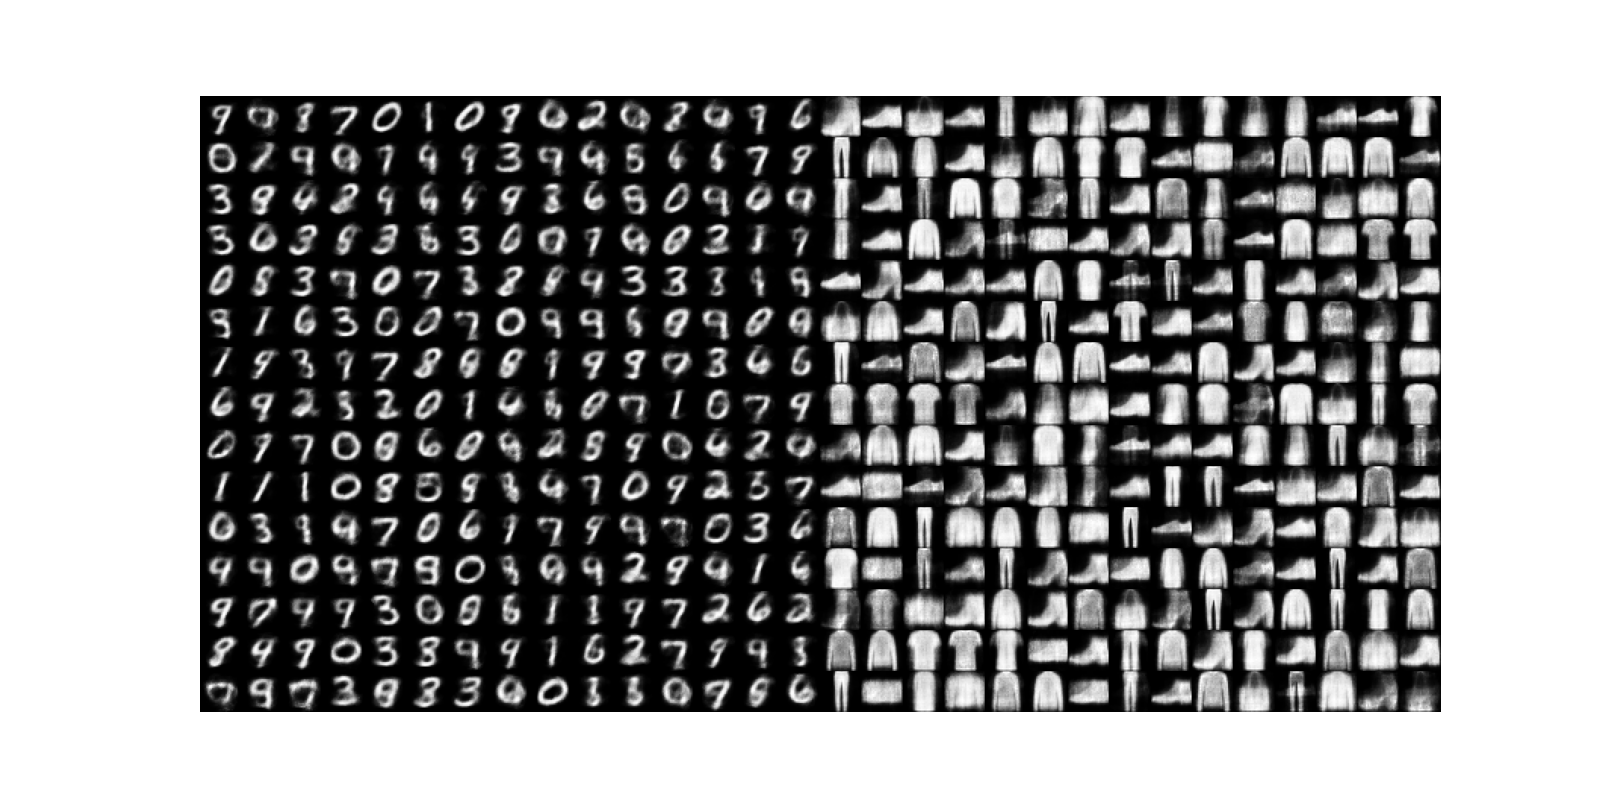
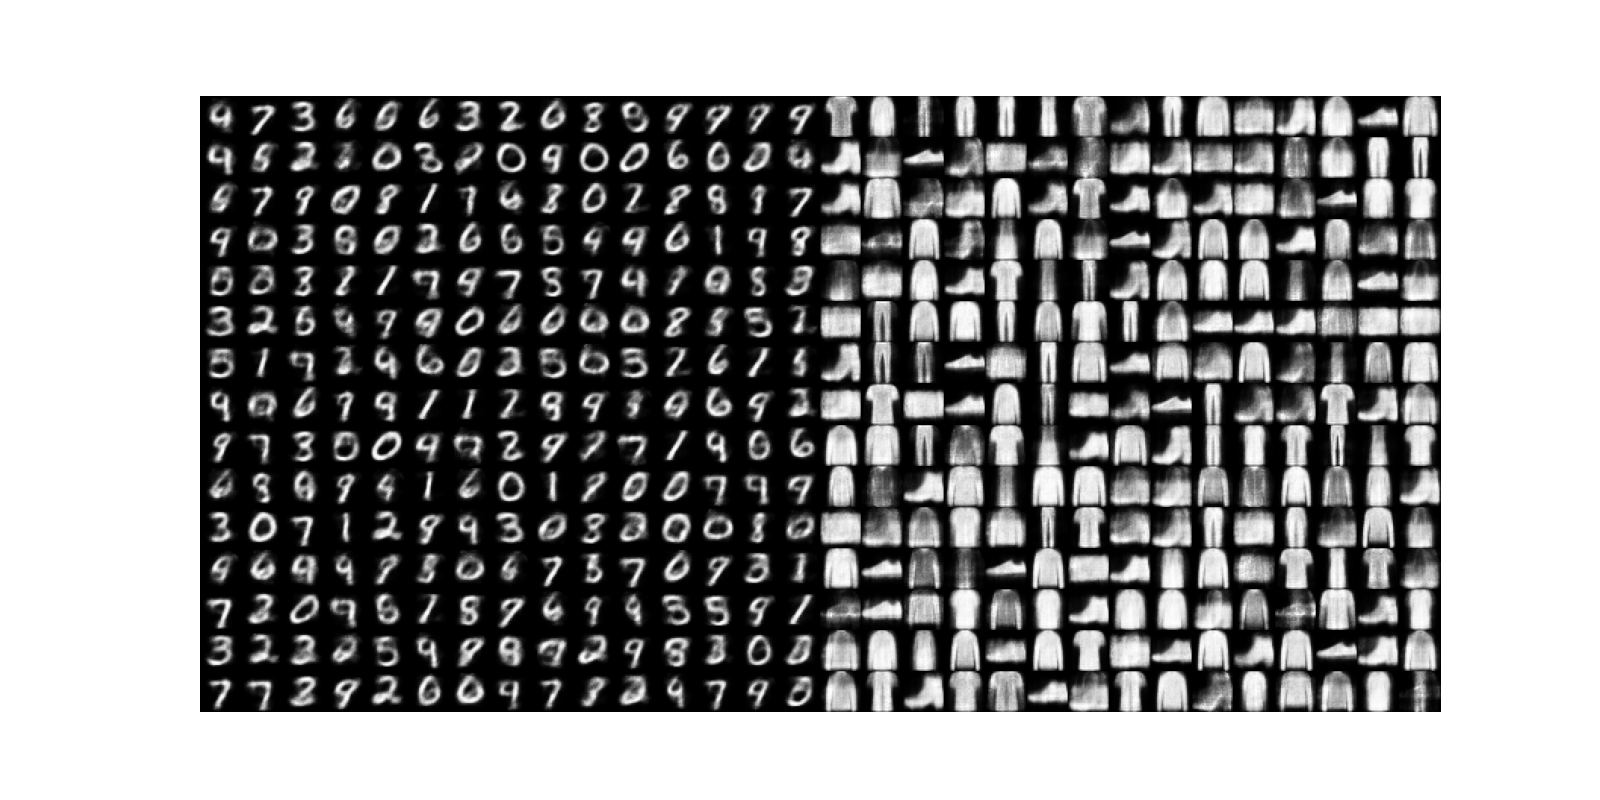
logs

Changed region(s): [[0.125, 0.125, 0.9062, 0.9062]]

diff --git a/plt_grid_img.py b/plt_grid_img.py
@@ -2,7 +2,7 @@ import h5py
 import matplotlib.pyplot as plt
 
 # File path to your HDF5 file
-file_path = 'logs/Vanilla/importance/FMNIST_1/generated_images.h5'
+file_path = 'logs/Vanilla/importance/MNIST_1/generated_images.h5'
 
 with h5py.File(file_path, 'r') as h5_file:
     image_data = h5_file['samples'][()] 